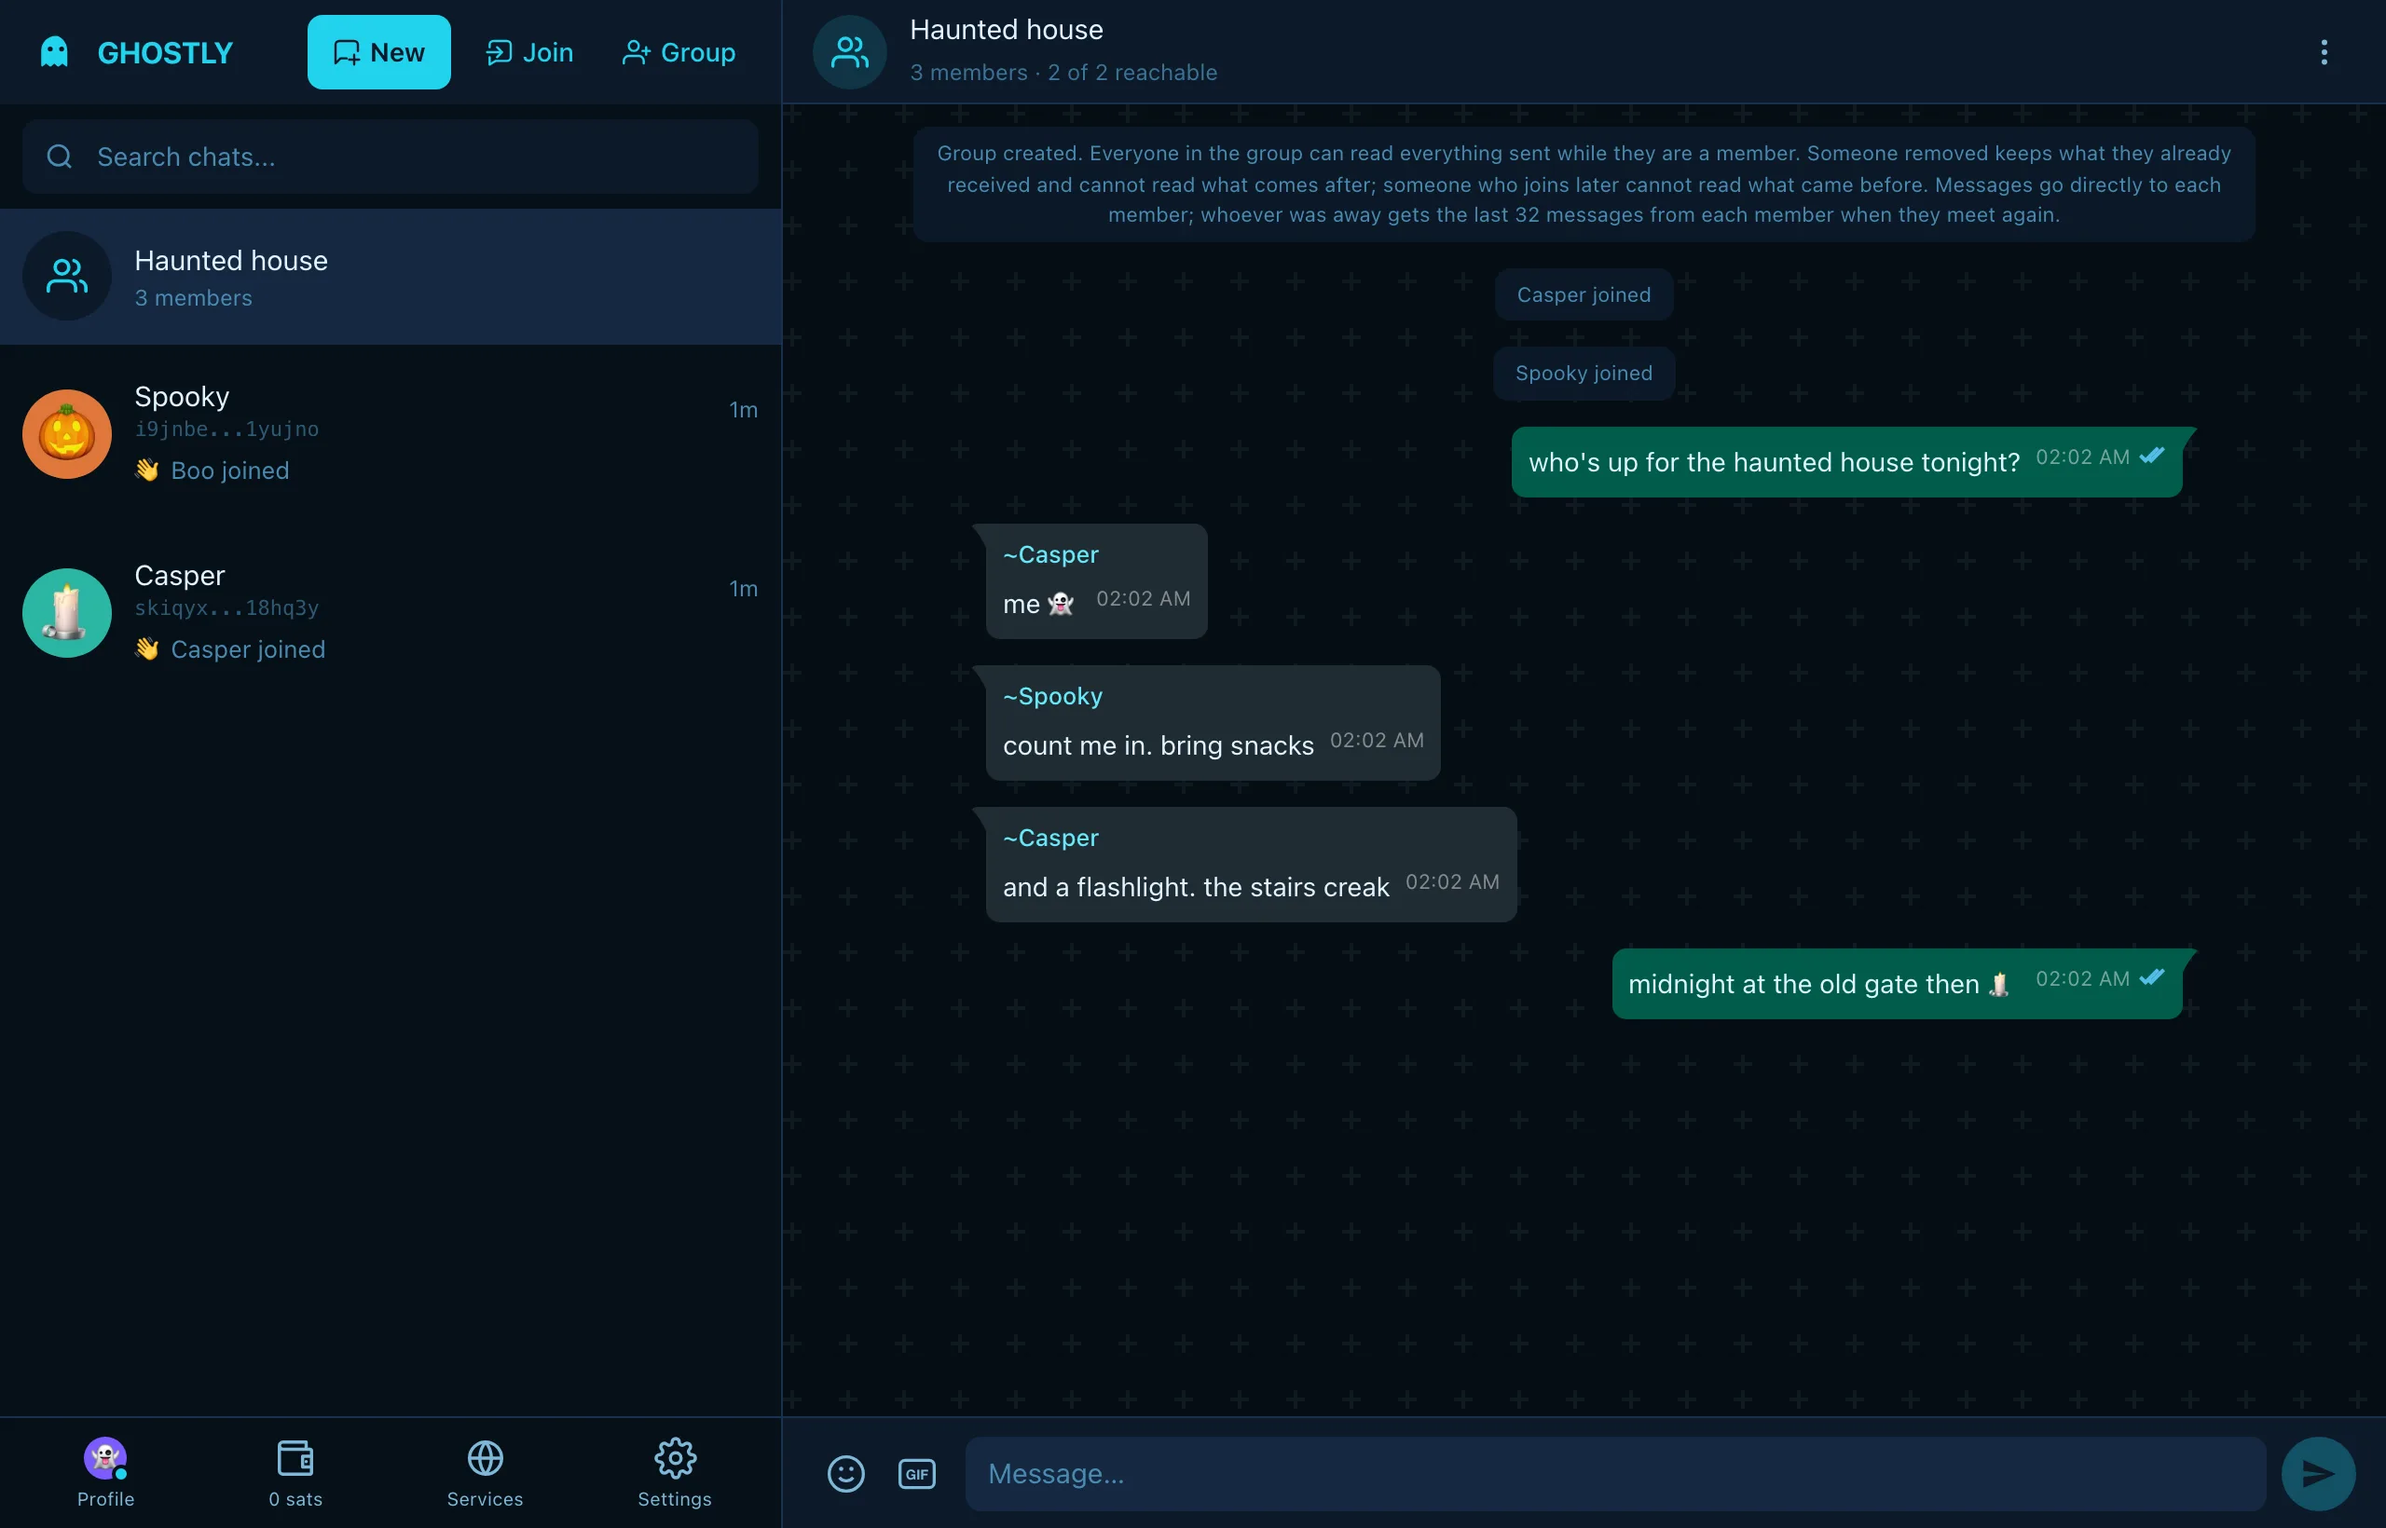
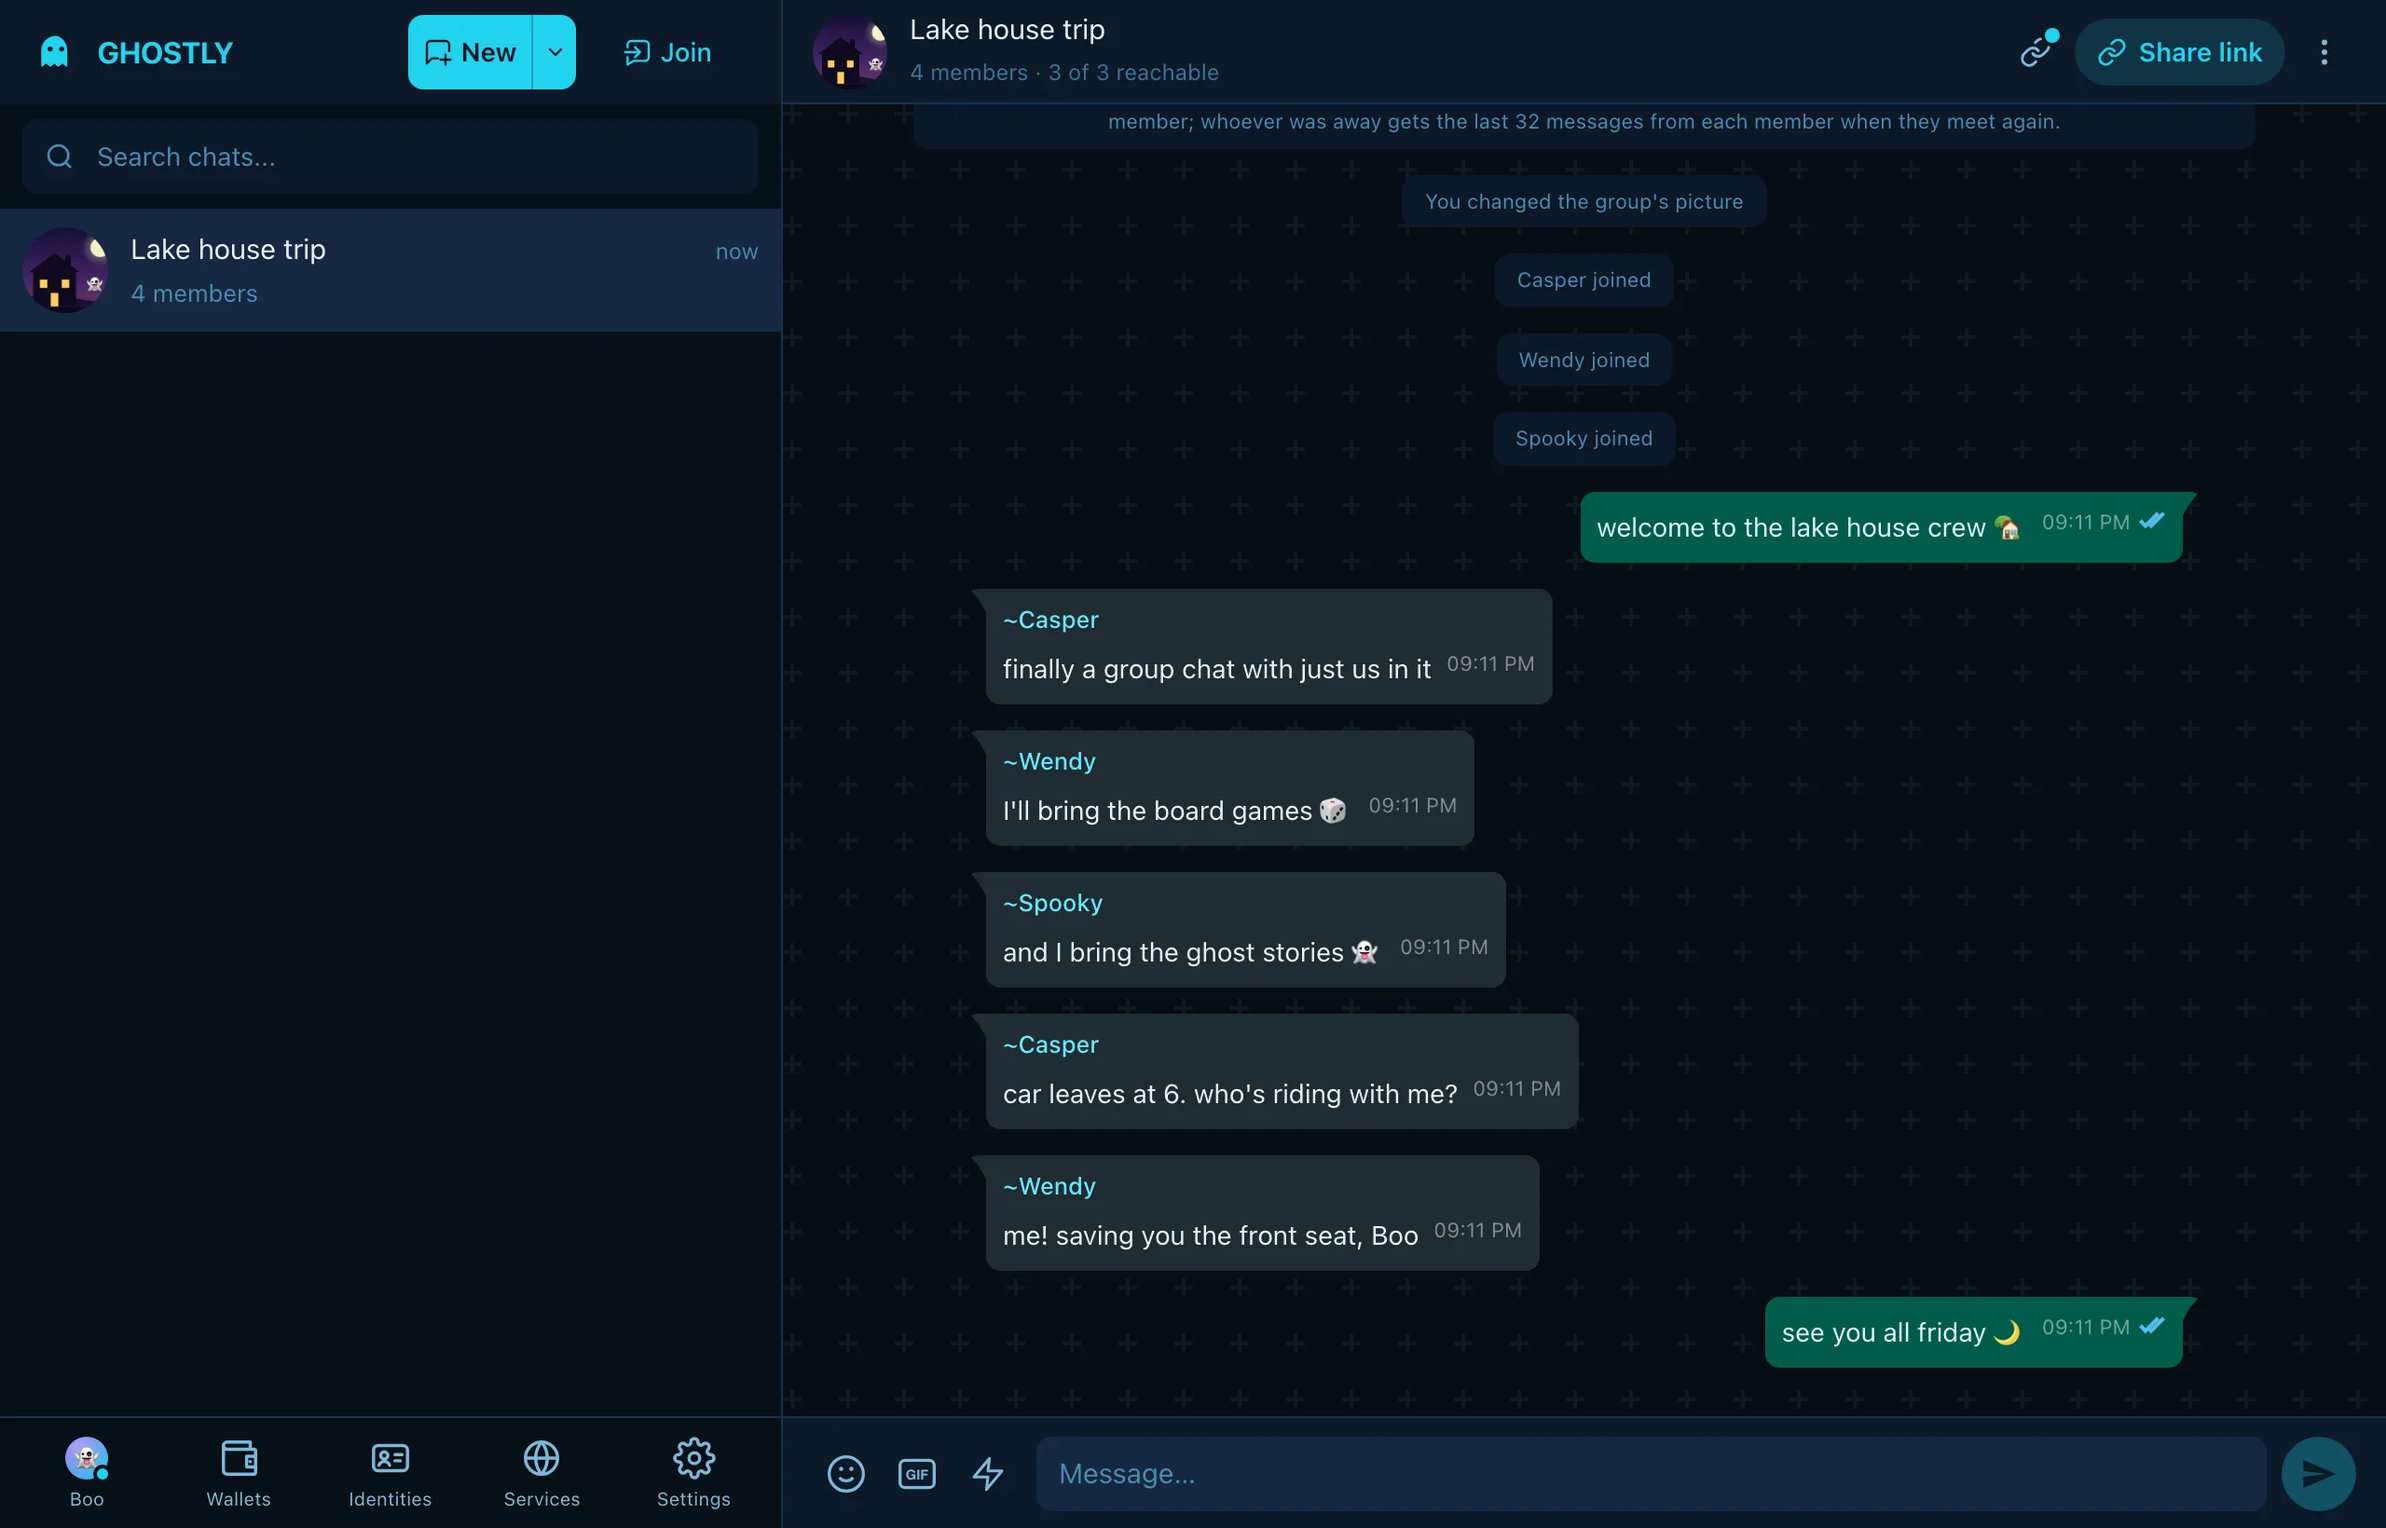
wip: shots and wiring

diff --git a/website/components/home/NextSection.tsx b/website/components/home/NextSection.tsx
@@ -20,12 +20,12 @@ type Shot = {
   mobile?: string;
 };
 
-// Real screens from the app, each with its phone counterpart.
+// Real screens from the app (npm run capture), each with its phone counterpart.
 // Each crop zooms into the detail its caption names so the UI text stays legible.
 const SHOTS: Record<string, Shot> = {
   chat: {
     src: "/screenshots/current/chat.webp",
-    alt: "A paired chat between Boo and Casper with delivery receipts",
+    alt: "Boo's chat with Casper: names and pictures in the chat list, delivery receipts under each message",
     from: "dev",
     width: 2560,
     height: 1640,
@@ -35,7 +35,7 @@ const SHOTS: Record<string, Shot> = {
   },
   files: {
     src: "/screenshots/current/file.webp",
-    alt: "An image sent in a chat, with its preview and a download button",
+    alt: "A photo Casper sent in the chat, with its preview and a download button",
     from: "dev",
     width: 2560,
     height: 1640,
@@ -55,18 +55,18 @@ const SHOTS: Record<string, Shot> = {
     mobile: "/screenshots/current/call-mobile.webp",
   },
   sats: {
-    src: "/screenshots/current/wallet-mainnet.webp",
-    alt: "The wallet with Cashu, Lightning, Ark and USDT cards",
+    src: "/screenshots/current/sats.webp",
+    alt: "Paying in the chat with Casper on test networks: 2,100 sats received for the snacks, a request paid over Ark, and the deck of eight wallet cards",
     from: "dev",
     width: 2560,
     height: 1640,
     // The four wallet cards, the balance and the Receive / Send row.
     crop: { x: 0.355, y: 0.075, w: 0.625 },
-    mobile: "/screenshots/current/wallet-mobile.webp",
+    mobile: "/screenshots/current/sats-mobile.webp",
   },
   services: {
     src: "/screenshots/current/services-chat.webp",
-    alt: "Choosing which of your apps a contact can open",
+    alt: "Choosing which of your apps a contact can open: Lake photos, running on Boo's computer, shared with Casper",
     from: "dev",
     width: 2560,
     height: 1640,
@@ -76,7 +76,7 @@ const SHOTS: Record<string, Shot> = {
   },
   groups: {
     src: "/screenshots/current/groups.webp",
-    alt: "A private group called Haunted house with Boo, Casper and Spooky talking",
+    alt: "A private group called Lake house trip, with its picture and four members talking",
     from: "dev",
     width: 2560,
     height: 1640,
@@ -86,7 +86,7 @@ const SHOTS: Record<string, Shot> = {
   },
   identities: {
     src: "/screenshots/current/identities-chat.webp",
-    alt: "Casper's chat with Boo, the Identities dialog open: Boo's SSH key and OpenPGP key, each verified as their own key",
+    alt: "Casper's chat with Boo, the identities panel open: Boo's Nostr, OpenPGP, SSH and Bitcoin identities, each verified by Casper's app",
     from: "dev",
     width: 2560,
     height: 1640,

diff --git a/website/components/home/SpaceSection.tsx b/website/components/home/SpaceSection.tsx
@@ -41,7 +41,7 @@ export function SpaceSection({ t, w, shotLabel }: { t: HomeCopy["space"]; w: Hom
                 </div>
                 <div className="sp-window-body">
                   {/* eslint-disable-next-line @next/next/no-img-element */}
-                  <img src="/screenshots/current/profiles.webp" alt="The Profile page listing two profiles, Boo and Haunted House, with backups above" loading="lazy" width={1280} height={820} />
+                  <img src="/screenshots/current/profiles.webp" alt="The Profile page with three profiles, Personal, Work and Club, and backups above them" loading="lazy" width={1280} height={820} />
                 </div>
               </div>
               <figcaption className="caption">{shotLabel.replace("{n}", NEXT_VERSION)}</figcaption>
